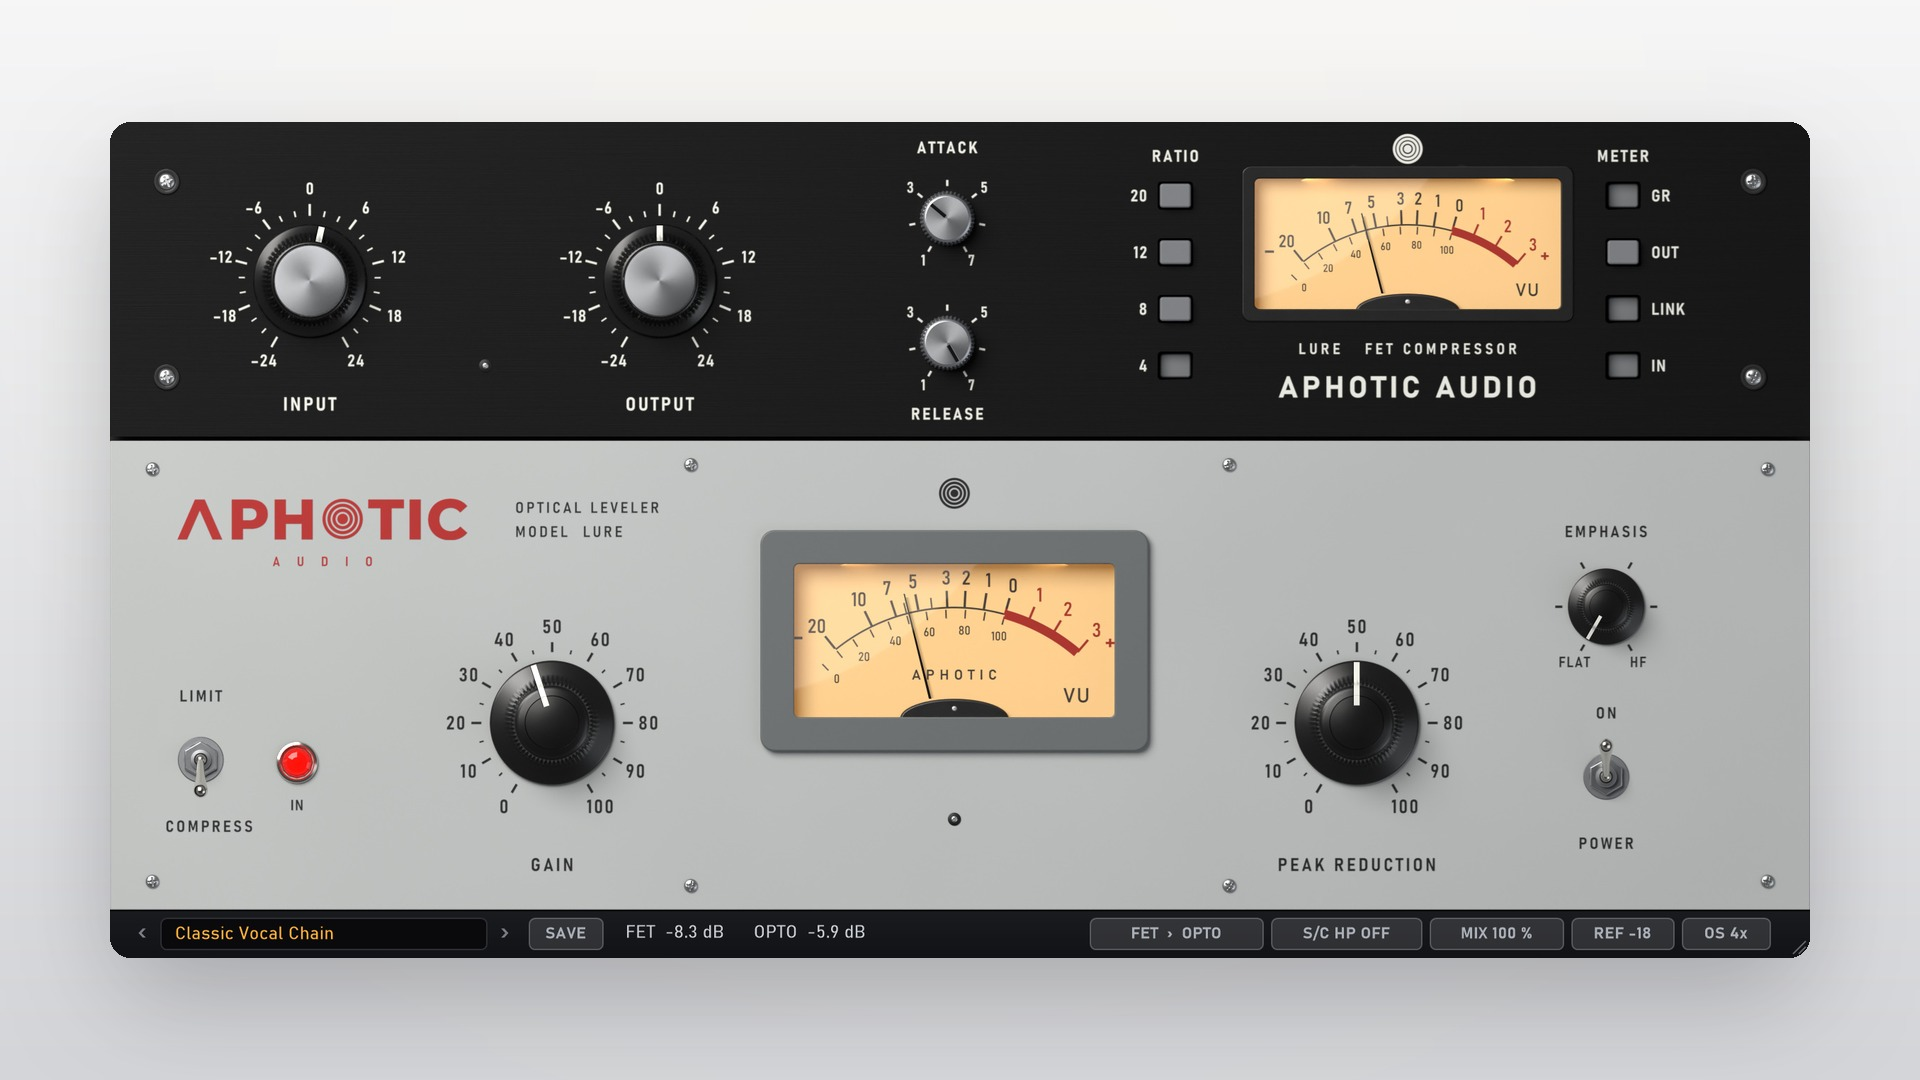
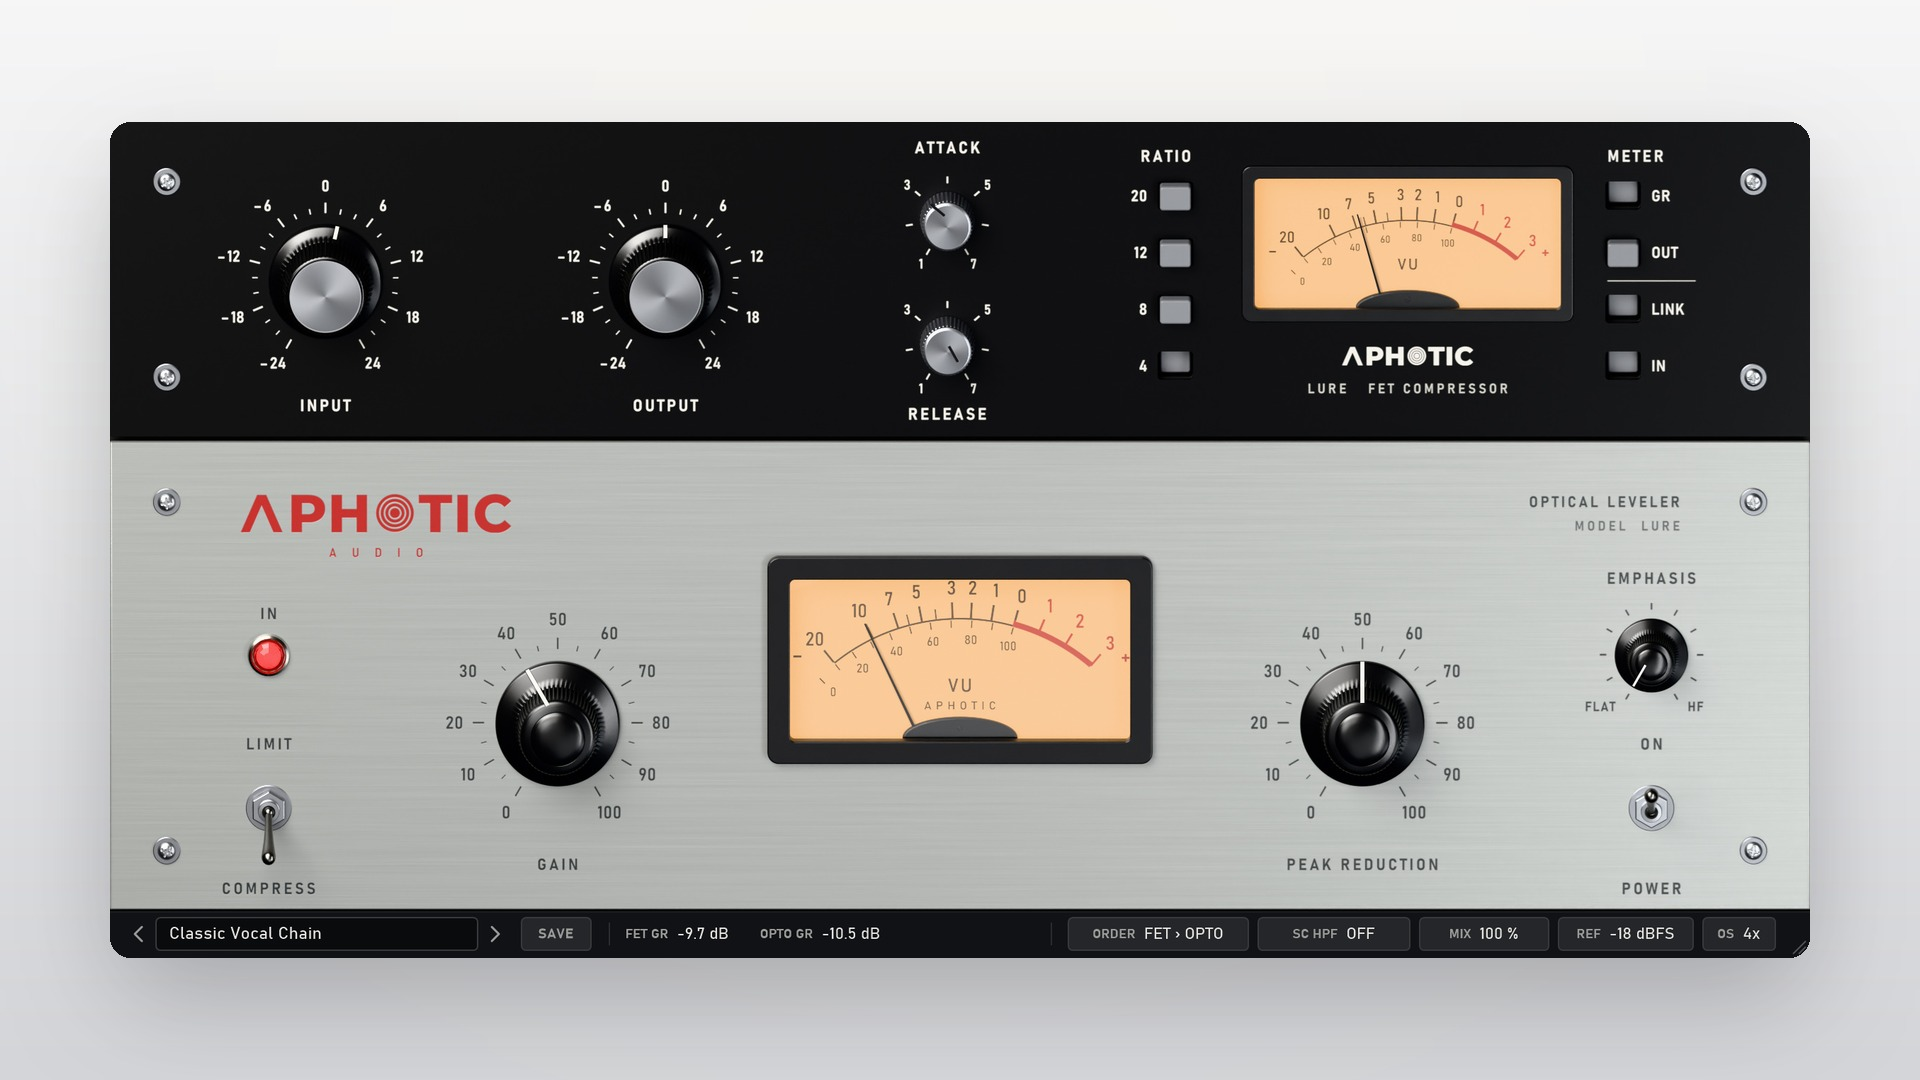
LURE 1.2.0: new front panel (pictures, version)

diff --git a/index.html b/index.html
@@ -490,11 +490,11 @@
             <p class="note">Free with an Aphotic Audio account. Installs in one click.</p>
           </div>
           <div class="p-side">
-            <figure class="shot"><img src="img/lure.jpg" width="1600" height="1000" loading="lazy" alt="LURE: a black rack unit with two large knobs, small attack and release knobs, grey ratio buttons and an amber VU meter, above a light grey unit with two black knobs, a larger VU meter, a toggle switch and a red lamp"></figure>
+            <figure class="shot"><img src="img/lure.jpg" width="1600" height="1000" loading="lazy" alt="LURE: a black rack unit with two large knobs, small attack and release knobs, grey ratio buttons and an amber VU meter, above a brushed silver unit with a VU meter in the middle between two black knobs, a red lamp and two toggle switches"></figure>
             <dl class="specs">
               <dt>Latency</dt><dd>Zero</dd>
               <dt>Formats</dt><dd>Windows VST3 (64-bit). Not on Mac yet</dd>
-              <dt>Version</dt><dd><span data-version="lure">1.1.0</span></dd>
+              <dt>Version</dt><dd><span data-version="lure">1.2.0</span></dd>
               <dt>License</dt><dd>Free with an Aphotic Audio account</dd>
             </dl>
           </div>
